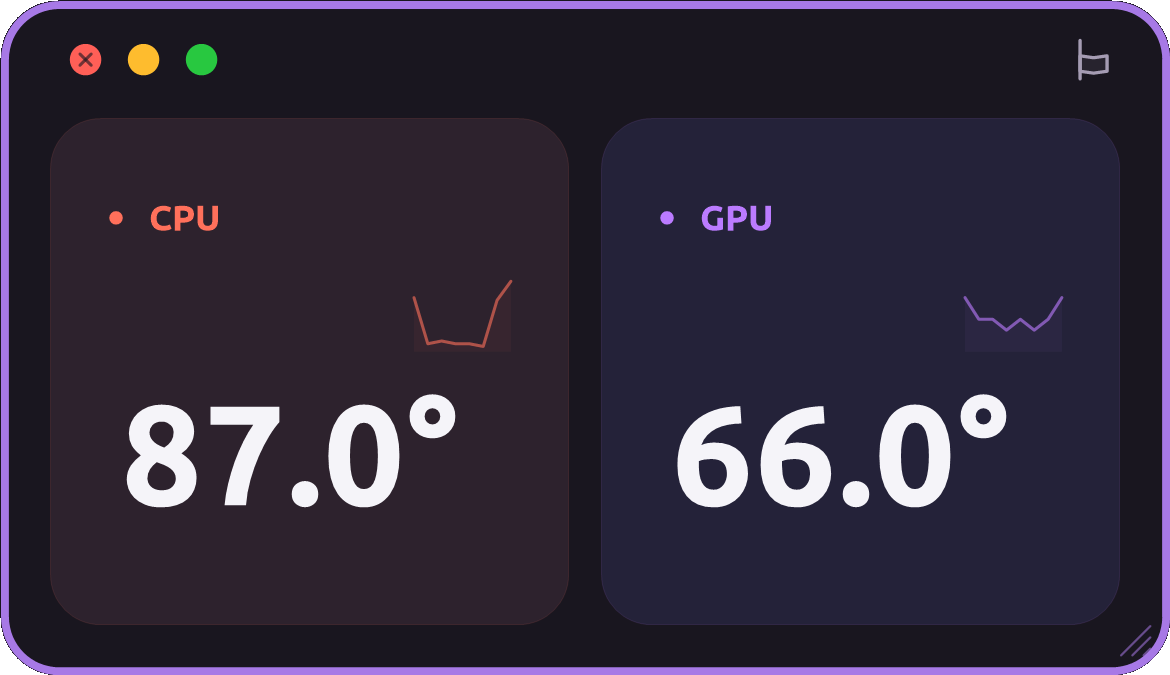
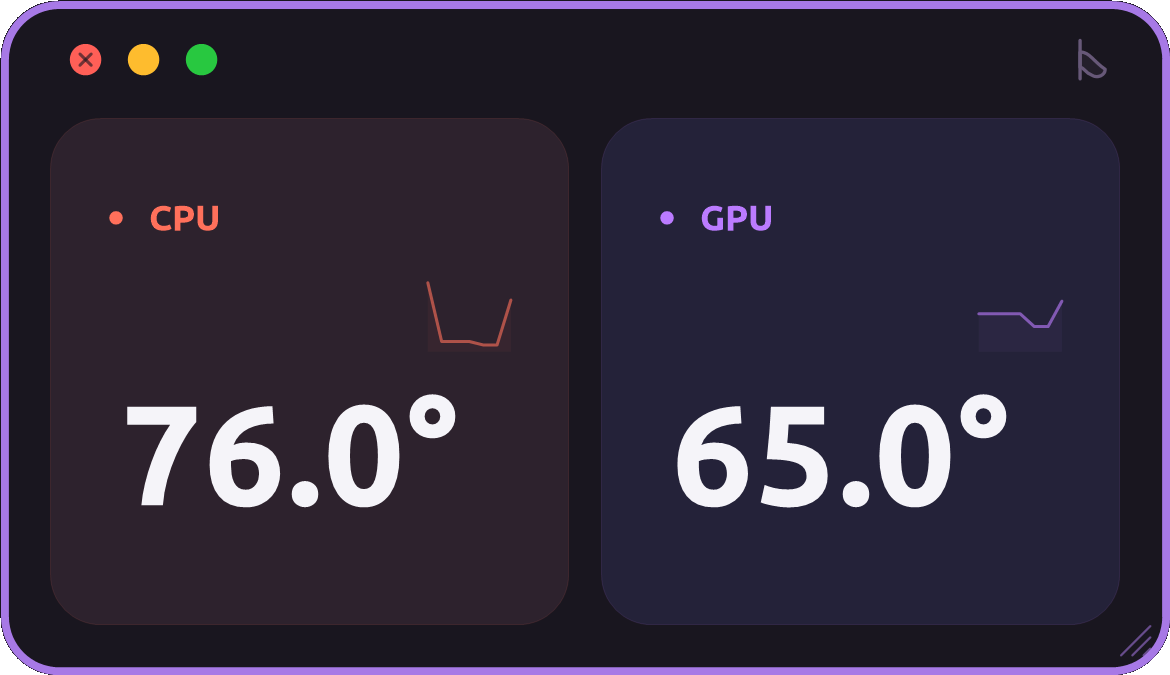
Show bright raised and dark drooping startup flags

diff --git a/WindowChrome.cs b/WindowChrome.cs
@@ -24,14 +24,27 @@ internal sealed class StartupFlagButton : Button
         e.Graphics.SmoothingMode = SmoothingMode.AntiAlias;
         var scale = Math.Min(Width, Height) / 28f;
         e.Graphics.ScaleTransform(scale, scale);
-        var color = !Enabled ? Theme.Border : IsOn ? Theme.Lavender : Theme.Muted;
-        using var pen = new Pen(color, 1.7f) { StartCap = LineCap.Round, EndCap = LineCap.Round, LineJoin = LineJoin.Round };
+        var color = !Enabled ? Theme.Border : IsOn ? Theme.Lavender : Color.FromArgb(103, 88, 120);
+        using var pen = new Pen(color, IsOn ? 2f : 1.7f) { StartCap = LineCap.Round, EndCap = LineCap.Round, LineJoin = LineJoin.Round };
         e.Graphics.DrawLine(pen, 7, 4, 7, 24);
-        var top = FlagHeight;
-        PointF[] flag = [new(7, top), new(14, top + 1), new(21, top), new(21, top + 8), new(14, top + 9), new(7, top + 8)];
-        using var fill = new SolidBrush(Color.FromArgb(IsOn ? 90 : 25, color));
-        e.Graphics.FillPolygon(fill, flag);
-        e.Graphics.DrawPolygon(pen, flag);
+        using var flag = new GraphicsPath();
+        if (IsOn)
+        {
+            flag.AddBezier(7, 5, 12, 3, 15, 8, 22, 5);
+            flag.AddLine(22, 5, 22, 14);
+            flag.AddBezier(22, 14, 15, 17, 12, 11, 7, 14);
+        }
+        else
+        {
+            // The cloth folds toward the pole and its free end hangs down.
+            flag.AddBezier(7, 10, 12, 10, 14, 15, 20, 19);
+            flag.AddBezier(20, 19, 20, 22, 16, 24, 13, 22);
+            flag.AddBezier(13, 22, 10, 21, 9, 18, 7, 18);
+        }
+        flag.CloseFigure();
+        using var fill = new SolidBrush(Color.FromArgb(IsOn ? 180 : 35, color));
+        e.Graphics.FillPath(fill, flag);
+        e.Graphics.DrawPath(pen, flag);
         if (Focused) e.Graphics.DrawLine(pen, 5, 26, 23, 26);
     }
 }

diff --git a/RELEASE_NOTES.md b/RELEASE_NOTES.md
@@ -4,20 +4,20 @@
 
 **SoyTemperature.exe**를 직접 다운로드하거나, ZIP을 풀고 **release/1.0.0/SoyTemperature.exe**를 실행하세요. .NET·글꼴 별도 설치 없이 실행되는 단일 exe입니다.
 
-<img src="https://raw.githubusercontent.com/soylab-edu/soylab_hw_temperature/v1.0.7/img/screenshots/icon.png" alt="SOY Temperature 아이콘" width="128" />
+<img src="https://raw.githubusercontent.com/soylab-edu/soylab_hw_temperature/v1.0.8/img/screenshots/icon.png" alt="SOY Temperature 아이콘" width="128" />
 
-<img src="https://raw.githubusercontent.com/soylab-edu/soylab_hw_temperature/v1.0.7/img/screenshots/interface.png" alt="CPU·GPU 실제 실행 화면" width="780" />
+<img src="https://raw.githubusercontent.com/soylab-edu/soylab_hw_temperature/v1.0.8/img/screenshots/interface.png" alt="CPU·GPU 실제 실행 화면" width="780" />
 
 - CPU·GPU 현재 온도와 최근 60초 그래프를 2초마다 갱신합니다.
 - Ubuntu Bold 글꼴과 보라색 카드·둥근 외곽선. 작은 창과 높은 화면 배율에서도 글자가 맞춰집니다.
 - 좌상단 빨강은 종료, 노랑은 트레이 숨기기, 초록은 소이랩 홈페이지입니다.
-- **우상단 깃발이 올라가면 로그인 시 트레이 자동 실행 ON, 내려가면 OFF**입니다. 켜면 바탕 화면·시작 메뉴 바로가기도 생성합니다.
+- **우상단 깃발이 밝게 펴지면 로그인 시 트레이 자동 실행 ON, 어둡게 처지면 OFF**입니다. 켜면 바탕 화면·시작 메뉴 바로가기도 생성합니다.
 - 자동 실행은 CPU 측정에 필요한 관리자 권한으로 예약 작업에서 시작합니다. 재실행 시 중복 실행을 막고 기존 창을 엽니다.
 - 트레이에 CPU·GPU 온도 숫자를 표시합니다. 우클릭으로 최저·최고 기록·CSV·드라이버 설치를 사용할 수 있습니다.
 
 실행할 때 Windows 관리자 승인 창에서 **예**를 누르세요. CPU 드라이버가 없다면 우클릭 → CPU 드라이버 설치를 사용하세요.
 
-[사용법·아이콘·화면 캡처·공개 소스](https://github.com/soylab-edu/soylab_hw_temperature) · [소스 ZIP](https://github.com/soylab-edu/soylab_hw_temperature/archive/refs/tags/v1.0.7.zip)
+[바로 사용하기 — 릴리즈 다운로드](https://github.com/soylab-edu/soylab_hw_temperature/releases/latest) · [사용법과 공개 소스](https://github.com/soylab-edu/soylab_hw_temperature)
 
 ---
 

diff --git a/README.md b/README.md
@@ -38,7 +38,7 @@ SOYLAB 컬러 패턴과 커다란 온도계가 어우러진 아이콘입니다.
 | 좌상단 빨간 버튼 | 종료 |
 | 좌상단 노란 버튼 | 창을 숨기고 트레이에 CPU·GPU 온도 표시 |
 | 좌상단 초록 버튼 | [소이랩 홈페이지](https://soylab.ai/) 열기 |
-| 우상단 깃발 | **올라가면 로그인 시 자동 실행 ON**, 내려가면 OFF |
+| 우상단 깃발 | **밝게 펴지면 로그인 시 자동 실행 ON**, 어둡게 처지면 OFF |
 | 카드·여백 드래그 | 창 이동 |
 | 가장자리·우하단 손잡이 드래그 | 창 크기 조절 |
 | 트레이 온도 클릭 / 바로가기 재실행 | 기존 창 열기 |
@@ -54,9 +54,9 @@ SOYLAB 컬러 패턴과 커다란 온도계가 어우러진 아이콘입니다.
 
 ## 자동 실행과 바로가기
 
-**우상단 깃발을 클릭하면** Windows 로그인 시 자동 실행을 켜거나 끌 수 있습니다. 올라간 깃발은 켜짐, 내려간 깃발은 꺼짐입니다. 켜면 현재 사용자용 예약 작업과 바탕 화면·시작 메뉴 바로가기를 만들고, 다음 로그인부터 창을 띄우지 않고 트레이로 시작합니다. CPU 센서에 필요한 관리자 권한으로 실행합니다.
+**우상단 깃발을 클릭하면** Windows 로그인 시 자동 실행을 켜거나 끌 수 있습니다. 밝게 펼쳐진 깃발은 켜짐, 어두워지면서 아래로 처진 깃발은 꺼짐입니다. 켜면 현재 사용자용 예약 작업과 바탕 화면·시작 메뉴 바로가기를 만들고, 다음 로그인부터 창을 띄우지 않고 트레이로 시작합니다. CPU 센서에 필요한 관리자 권한으로 실행합니다.
 
-<img src="img/screenshots/startup-on.png" alt="우상단 깃발이 올라간 자동 실행 켜짐 상태" width="360" /> <img src="img/screenshots/startup-off.png" alt="우상단 깃발이 내려간 자동 실행 꺼짐 상태" width="360" />
+<img src="img/screenshots/startup-on.png" alt="우상단 깃발이 밝게 펼쳐진 자동 실행 켜짐 상태" width="360" /> <img src="img/screenshots/startup-off.png" alt="우상단 깃발이 어둡게 처진 자동 실행 꺼짐 상태" width="360" />
 
 작업 표시줄에 고정하려면 바탕 화면의 **SOY Temperature** 바로가기를 우클릭해 **작업 표시줄에 고정**을 선택하세요. 같은 앱을 다시 실행하면 중복으로 뜨지 않고 기존 창이 열립니다.
 

diff --git a/release/1.0.0/README.md b/release/1.0.0/README.md
@@ -8,7 +8,7 @@
 
 ZIP에는 `release/1.0.0/SoyTemperature.exe` 한 파일이 들어 있습니다. .NET 설치 없이 실행됩니다. 바이너리는 GitHub Releases에서 배포하고, 저장소에는 소스와 다운로드 안내를 공개합니다.
 
-우상단 깃발을 올리면 Windows 로그인 시 트레이로 자동 실행되고, 내리면 자동 실행이 꺼집니다. CPU 센서를 읽으려면 Windows 관리자 승인에 동의하세요. 실행 파일을 이동하면 새 위치에서 자동 실행을 다시 켜주세요.
+우상단 깃발이 밝게 펴지면 Windows 로그인 시 트레이로 자동 실행되고, 어둡게 처지면 자동 실행이 꺼집니다. CPU 센서를 읽으려면 Windows 관리자 승인에 동의하세요. 실행 파일을 이동하면 새 위치에서 자동 실행을 다시 켜주세요.
 
 [자세한 사용법과 화면](../../README.md)
 
